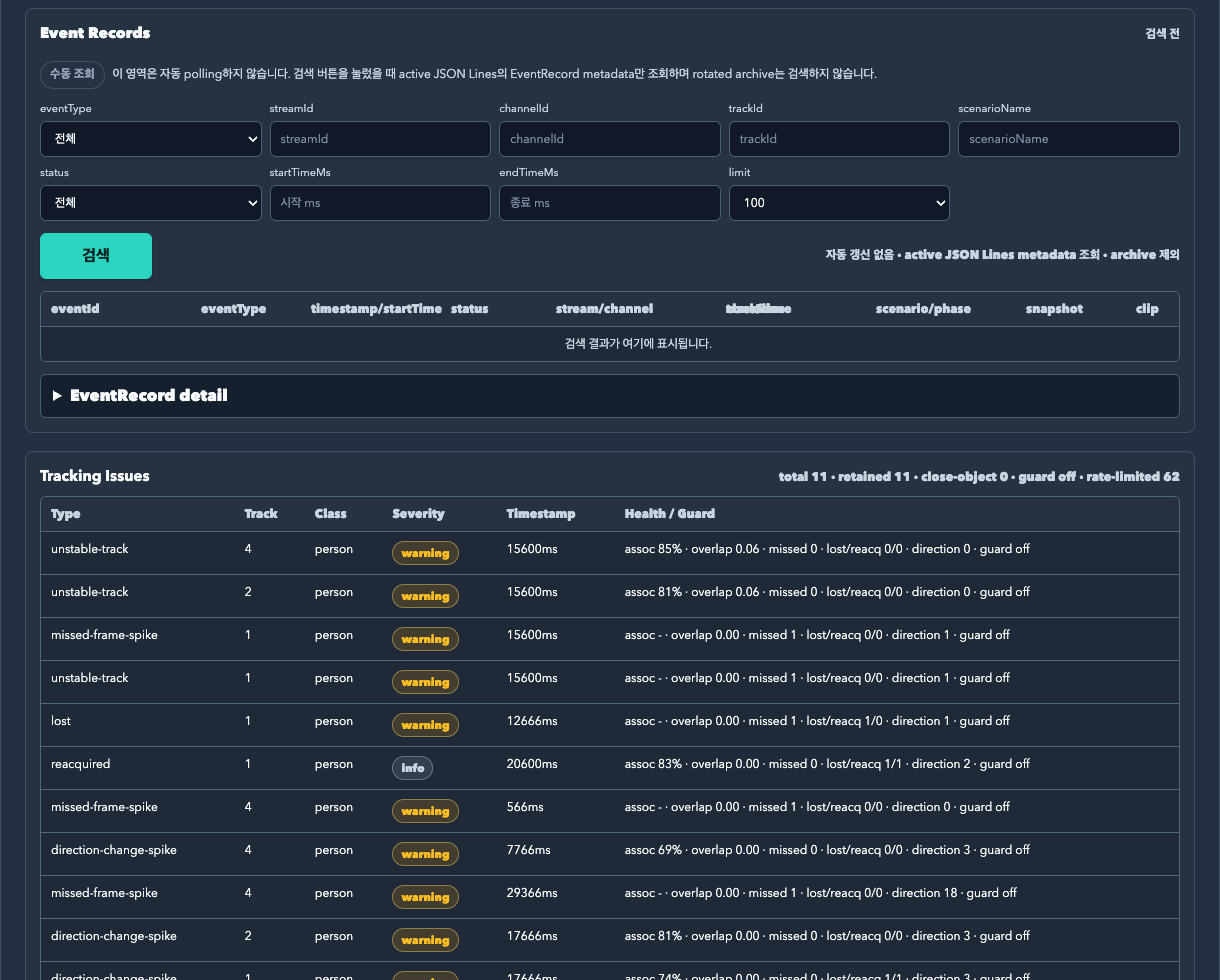
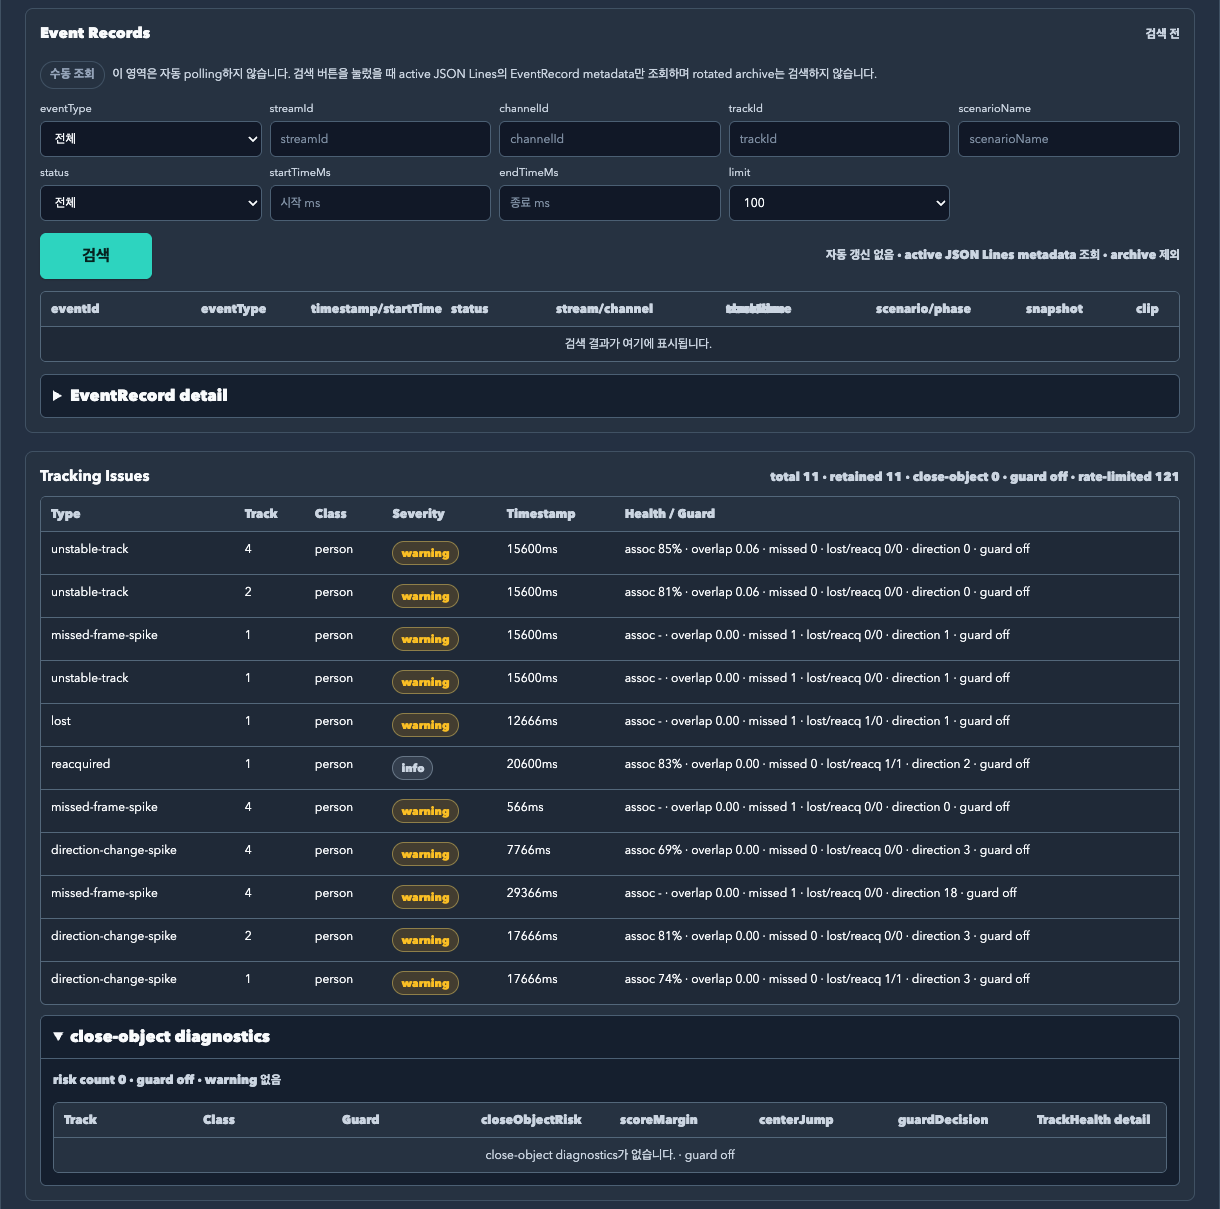
docs: refine runtime dashboard screenshots

diff --git a/docs/ui-guide.md b/docs/ui-guide.md
@@ -465,31 +465,66 @@ VA 런타임 대시보드는 현재 분석 서버 상태를 한 화면에서 보
 | Dashboard tab 닫힘 | polling 중지 |
 | 자동 갱신 사용 | 최소 2초 이상 간격으로 제한 |
 
-문서용 screenshot은 긴 dashboard 전체를 한 장으로 축소하지 않고, active analysis tap 데이터가 들어간 상태에서 구간별로 나눠 캡처합니다.
+문서용 screenshot은 긴 dashboard 전체를 한 장으로 축소하지 않고, active analysis tap 데이터가 들어간 상태에서 구간별로 나눠 캡처합니다. 각 이미지는 바로 위의 확인 포인트와 함께 읽습니다.
 
 | Screenshot | 확인 포인트 |
 | --- | --- |
-| Health Summary | active stream/tap, stale, cleanup, guard 상태 요약 |
+| Health Summary / Controls | active stream/tap, rule, refresh, stale, cleanup, guard 상태 요약 |
 | Warnings / Trend detail | 최근 sample 수, delta/min/max, warning badge |
 | Metadata / Backpressure | WebRTC/SSE/WS metadata, payload, DataChannel buffer |
 | Runtime Detail / vaRule Debug | 선택 tap/rule/source/profile/event/scenario runtime 관계 |
 | Tracks | track lifecycle, zone/dwell, TrackHealth |
 | Scenarios / Events | scenario phase/timeline, recent event buffer |
-| Event Records / Tracking Issues | 수동 EventRecord 검색 UI, tracking issue report |
+| Event Records | 자동 polling 없는 수동 검색 UI와 active JSON Lines 조회 범위 |
+| Tracking Issues | tracking issue report와 close-object diagnostics |
+
+### 10.1. Health Summary / Controls
+
+대시보드 제목, tap/rule 선택, refresh 정책, Health Summary를 함께 봅니다. source는 문서용으로 상대 표시하며 개인 절대경로를 노출하지 않습니다.
 
 ![VA 런타임 대시보드 Health Summary](assets/ui/analysis-runtime-dashboard.png)
 
+### 10.2. Warnings / Trend detail
+
+최근 60개 client-side sample 기준의 delta/min/max와 warning badge를 확인합니다. Runtime Dashboard는 live observation 보조 화면이며 longrun report를 대체하지 않습니다.
+
 ![VA 런타임 대시보드 Warnings Trend](assets/ui/analysis-runtime-dashboard-trend.png)
+
+### 10.3. Metadata / Backpressure
+
+WebRTC DataChannel, SSE/WS side-channel, payload size, queue/drop/fail counter를 확인합니다. 값이 endpoint에서 제공되지 않으면 `미제공`으로 표시합니다.
 
 ![VA 런타임 대시보드 Metadata Backpressure](assets/ui/analysis-runtime-dashboard-metadata.png)
 
+### 10.4. Runtime Detail / vaRule Debug
+
+선택 rule과 active tap의 source/profile/event/scenario/region 관계를 읽기 전용으로 표시합니다. Event POST payload, metadata schema, ScenarioEngine 판단 로직은 변경하지 않습니다.
+
 ![VA 런타임 대시보드 Runtime Detail](assets/ui/analysis-runtime-dashboard-runtime.png)
+
+### 10.5. Tracks
+
+trackId, class, lifecycle, currentZone, dwellTimeMs, TrackHealth를 state-dump 기반으로 확인합니다.
 
 ![VA 런타임 대시보드 Tracks](assets/ui/analysis-runtime-dashboard-tracks.png)
 
+### 10.6. Scenarios / Events
+
+scenario phase, timeline, recent event buffer를 한 구간에서 확인합니다. 이벤트가 없으면 빈 상태 이유를 짧게 표시합니다.
+
 ![VA 런타임 대시보드 Scenarios Events](assets/ui/analysis-runtime-dashboard-scenarios.png)
 
-![VA 런타임 대시보드 Event Records Tracking Issues](assets/ui/analysis-runtime-dashboard-records-issues.png)
+### 10.7. Event Records
+
+Event Records는 자동 polling하지 않습니다. 검색 버튼을 눌렀을 때 active JSON Lines의 metadata만 조회하며 rotated archive는 별도 archive query 후속 범위입니다.
+
+![VA 런타임 대시보드 Event Records](assets/ui/analysis-runtime-dashboard-records.png)
+
+### 10.8. Tracking Issues
+
+tracking issue report와 close-object diagnostics를 분리해 봅니다. 아래 캡처는 table 하단과 diagnostics 접힘 영역이 잘리지 않도록 section 단위로 캡처한 예입니다.
+
+![VA 런타임 대시보드 Tracking Issues](assets/ui/analysis-runtime-dashboard-tracking-issues.png)
 
 표시 항목:
 

diff --git a/docs/development-backlog.md b/docs/development-backlog.md
@@ -44,10 +44,10 @@ git diff --check -- README.md docs
   - dark mode 기준 대표 screenshot 갱신
   - `analysis-rule-list`, `analysis-rule-editor-basic`, `analysis-rule-editor-scenario`
   - `analysis-region-canvas`, `analysis-preview`, `analysis-developer-url`
-  - Runtime Dashboard section crop: `analysis-runtime-dashboard`, `analysis-runtime-dashboard-trend`, `analysis-runtime-dashboard-metadata`, `analysis-runtime-dashboard-runtime`, `analysis-runtime-dashboard-tracks`, `analysis-runtime-dashboard-scenarios`, `analysis-runtime-dashboard-records-issues`
+  - Runtime Dashboard section crop: `analysis-runtime-dashboard`, `analysis-runtime-dashboard-trend`, `analysis-runtime-dashboard-metadata`, `analysis-runtime-dashboard-runtime`, `analysis-runtime-dashboard-tracks`, `analysis-runtime-dashboard-scenarios`, `analysis-runtime-dashboard-records`, `analysis-runtime-dashboard-tracking-issues`
   - 영상 화면은 실제 객체가 보이는 `va_four_scene_sample.mp4` 기준으로 캡처
   - 영상/캔버스 하단이 잘리지 않도록 section 경계 기준으로 재캡처
-  - Runtime Dashboard는 active analysis tap 데이터가 있는 Health Summary, Warnings/Trend, Metadata/Backpressure, Runtime Detail, Tracks, Scenarios/Events, Event Records/Tracking Issues 구간별 crop으로 교체
+  - Runtime Dashboard는 active analysis tap 데이터가 있는 Health Summary/Controls, Warnings/Trend, Metadata/Backpressure, Runtime Detail, Tracks, Scenarios/Events, Event Records, Tracking Issues 구간별 crop으로 교체
   - 이미지 내부 개인 절대경로 제거
 - 검증 명령:
 

diff --git a/docs/assets/ui/README.md b/docs/assets/ui/README.md
@@ -10,7 +10,8 @@
 - 영상이 보이는 화면은 실제 객체가 있는 `va_four_scene_sample.mp4` 기준으로 캡처한다.
 - 영상 프레임과 영역/라인 캔버스는 하단이 잘리지 않도록 section 경계까지 포함한다.
 - Runtime Dashboard는 전체 긴 화면 한 장 대신 active analysis tap 데이터가 있는 구간별 crop을 사용한다.
-- Runtime Dashboard 구간은 Health Summary, Warnings/Trend, Metadata/Backpressure, Runtime Detail/vaRule Debug, Tracks, Scenarios/Events, Event Records/Tracking Issues로 나눈다.
+- Runtime Dashboard 구간은 Health Summary/Controls, Warnings/Trend, Metadata/Backpressure, Runtime Detail/vaRule Debug, Tracks, Scenarios/Events, Event Records, Tracking Issues로 나눈다.
+- Runtime Dashboard 문서에는 각 screenshot 바로 앞에 확인 포인트를 둔다.
 
 파일명 규칙:
 
@@ -40,4 +41,5 @@ UI 가이드 상세 후보:
 - `analysis-runtime-dashboard-runtime.png`
 - `analysis-runtime-dashboard-tracks.png`
 - `analysis-runtime-dashboard-scenarios.png`
-- `analysis-runtime-dashboard-records-issues.png`
+- `analysis-runtime-dashboard-records.png`
+- `analysis-runtime-dashboard-tracking-issues.png`
